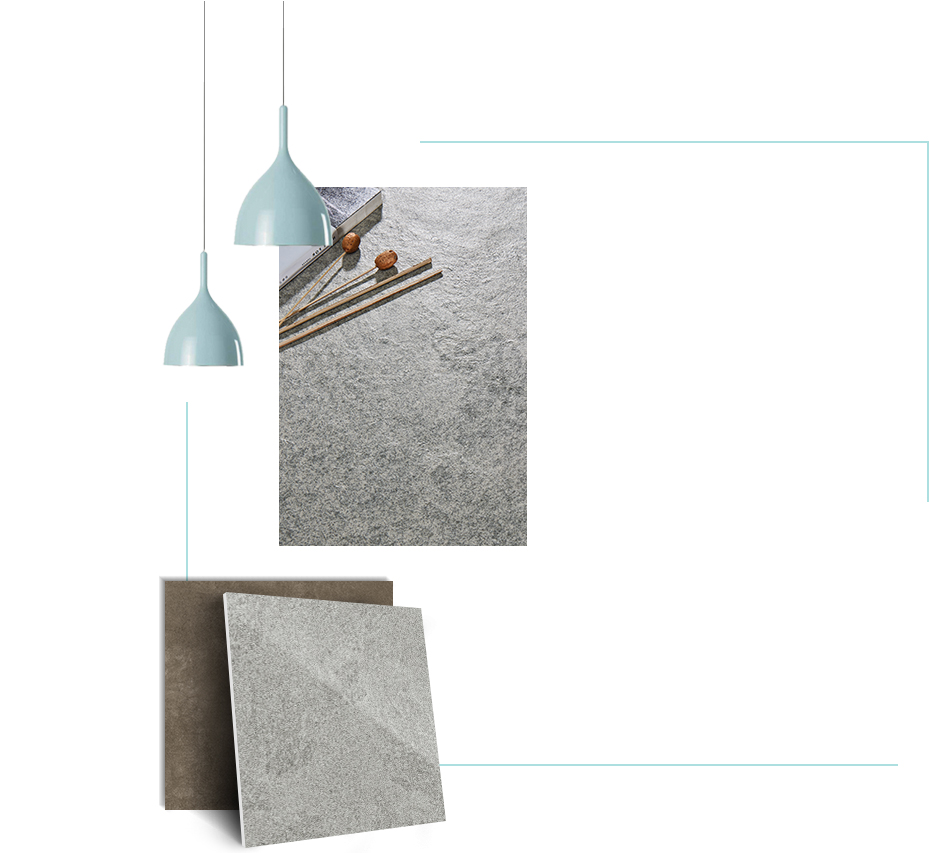
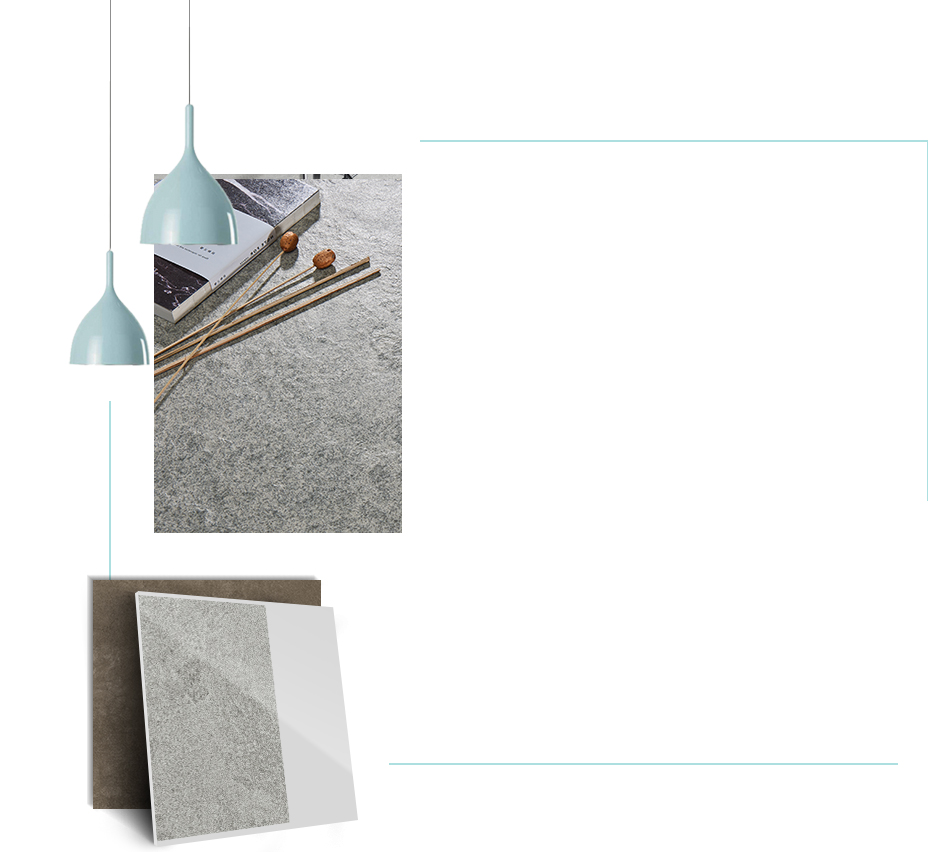
10132231

Changed region(s): [[0.0625, 0.1221, 0.5938, 1.0], [0.9688, 0.1526, 1.0, 0.5798]]

diff --git a/css/index.css b/css/index.css
@@ -248,18 +248,18 @@ body{
 }
  .produceLeft>.bslron>img:nth-child(4){
 	width: 15.8%;
-	top: 22.27%;
-	left:70.65%;
+    top: 19%;
+    left: 64.65%;
 }
  .produceLeft>.bslron>img:nth-child(5){
-	width: 26.56%;
-	top: 26.96%;
-	left:65.05%;
+	width: 28.56%;
+    top: 24.5%;
+    left: 58.05%;
 }
  .produceLeft>.bslron>img:nth-child(6){
-	width: 42.8%;
-	top: 32%;
-	left: 56.56%;
+	width: 47.8%;
+    top: 29%;
+    left: 48%;
 }
 /*右边*/
  .produceRight{
@@ -365,26 +365,26 @@ body{
 }
  .produceR>.bslron>img:nth-child(2){
 	left: 16.13%;
-	top:54%;
+	top:57%;
 }
  .produceR>.bslron>img:nth-child(3){
 	left: 32.26%;
-	top:58.24%;
+	top:60.24%;
 }
  .produceR>.bslron>img:nth-child(4){
-	width: 20.22%;
-	top: 21.56%;
-	left:11.08%;
+	width: 19.22%;
+    top: 19%;
+    left: 14.08%;
 }
  .produceR>.bslron>img:nth-child(5){
-	width: 29.35%;
-	top: 26%;
-	left:6.67%;
+	width: 31.35%;
+    top: 24%;
+    left: 8.3%;
 }
  .produceR>.bslron>img:nth-child(6){
-	width: 37.63%;
-	top: 30%;
-	left: 2.47%;
+	width: 47.04%;
+    top: 28.8%;
+    left: 1.45%;
 }
 /*木色年华*/
 #produceShowMS{
@@ -392,19 +392,19 @@ body{
 }
 /*左边*/
 #produceShowMS .produceLeft>.bslron>img:nth-child(4){
-	width: 17.74%;
-	top: 22.82%;
-	left:67.5%;
+	width: 16.74%;
+    top: 18.82%;
+    left: 68.5%;
 }
 #produceShowMS .produceLeft>.bslron>img:nth-child(5){
-	width: 24.3%;
-	top: 27.64%;
-	left:63.98%;
+	width: 27.3%;
+    top: 23.8%;
+    left: 62.98%;
 }
 #produceShowMS .produceLeft>.bslron>img:nth-child(6){
-	width: 42.8%;
-	top: 32%;
-	left: 55%;
+	width: 36.8%;
+    top: 28.5%;
+    left: 58.5%;
 }
 /*右边*/
 #produceShowMS .produceRight>.bsron>img{
@@ -459,19 +459,19 @@ body{
 }
 /*右边*/
 #produceShowXD .produceR>.bslron>img:nth-child(4){
-	width: 9.5%;
-	top: 22.31%;
-	left:19.46%;
+	width: 12.5%;
+    top: 18.6%;
+    left: 19.46%;;
 }
 #produceShowXD .produceR>.bslron>img:nth-child(5){
-	width: 26.67%;
-	top: 27.27%;
-	left:10.6%;
+	width: 30.67%;
+    top: 24%;
+    left: 11.0%;
 }
  .produceR>.bslron>img:nth-child(6){
-	width: 42.04%;
-	top: 31.64%;
-	left: 2.45%;
+	width: 41.04%;
+    top: 28.64%;
+    left: 6%;
 }
 
 /*工匠*/
@@ -497,7 +497,7 @@ body{
 	left: 0%;
 }
 #worker .worker>.workContainer>img:nth-child(2){
-	width: 42.87%;
+	width: 31.6%;
 	top: 9.2%;
 	left: 42.11%;
 }
@@ -507,9 +507,9 @@ body{
 	left: 52.52%;
 }
 #worker .worker>.workContainer>img:nth-child(4){
-	width: 48.15%;
+	width: 35.15%;
 	top: 72.07%;
-	left: 12.42%;
+	left: 21.42%;
 }
 #foot{
 	background-color: #121719;
@@ -728,3 +728,19 @@ body{
     background-repeat: no-repeat;
     right: -32px;
 }
+#produceShowGY .produceLeft>.bslron>img:nth-child(4) {
+    width: 15.8%;
+    top: 19%;
+    left: 66.65%;
+}
+#produceShowGY  .produceLeft>.bslron>img:nth-child(5) {
+        width: 27.56%;
+    top: 24.5%;
+    left: 61.05%;
+}
+#produceShowGY .produceLeft>.bslron>img:nth-child(6) {
+    width: 46.8%;
+    top: 29%;
+    left: 51.5%;
+}
+

diff --git a/index.html b/index.html
@@ -367,8 +367,8 @@
 						<ul>
 							<li>
 								<p>{{productVideo.title}}</p>
+								<p style="font-size: 28px;margin-bottom: 15px;">为年轻代岩</p>
 							</li>
-
 							<li>
 								<a href="###"><img src="img/bigplay.png" /></a>
 							</li>
@@ -424,14 +424,14 @@
 						</div>
 					</div>
 					<div class="produceR floatr">
-						<img src="img/tsdrBkg.png">
+						<img src="img/tsdrBkg.jpg">
 						<div class="bslron">
 							<img src="img/tsdImg01.png" data-scroll-reveal="enter right and move 30px over 0.8s"/>
 							<img src="img/tsdImg02.png" data-scroll-reveal="enter right and move 30px wait 0.1s over 0.8s"/>
 							<img src="img/tsdImg03.png" data-scroll-reveal="enter right and move 30px wait 0.2s over 0.8s"/>
-							<img src="titleImg/tsdt06.png" data-scroll-reveal="enter top and move 30px over 1.0s"/>
+							<img src="titleImg/tsdt06.png"  data-scroll-reveal="enter top and move 30px over 1.0s"/>
 							<img src="titleImg/tsdt07.png" data-scroll-reveal="enter top and move 25px over 1.0s"/>
-							<img src="titleImg/tsdt08.png" data-scroll-reveal="enter top and move 20px over 1.0s"/>
+							<img src="titleImg/tsdt08.png" style="width: 45.04%;top: 28.8%;left: 2.45%;" data-scroll-reveal="enter top and move 20px over 1.0s"/>
 						</div>
 					</div>
 					<div class="clearboth"></div>
@@ -504,7 +504,7 @@
 			<div id="produceShowGY">
 				<div class="produceShow">
 					<div class="produceLeft floatl">
-						<img src="img/bslBkg.jpg">
+						<img src="img/gybkg.jpg">
 						<div class="bslron">
 							<img src="img/bslimg01.png" data-scroll-reveal="enter left and move 30px over 0.8s" />
 							<img src="img/bslimg02.png" data-scroll-reveal="enter left and move 30px wait 0.1s over 0.8s"/>
@@ -536,9 +536,9 @@
 					<img src="img/wordBkg.png" />
 					<div class="workContainer">
 						<img src="img/worklImg.png" data-scroll-reveal="enter left and move 30px over 0.8s"/>
-						<img src="titleImg/wordtl.png" data-scroll-reveal="enter right and move 30px over 1.0s"/>
+						<img src="titleImg/wordtr.png" data-scroll-reveal="enter right and move 30px over 1.0s"/>
 						<img src="img/workrImg.png" data-scroll-reveal="enter left and move 30px over 1.2s"/>
-						<img src="titleImg/wordtr.png" data-scroll-reveal="enter right and move 30px over 1.4s"/>
+						<img src="titleImg/wordtl.png" data-scroll-reveal="enter right and move 30px over 1.4s"/>
 					</div>
 				</div>
 			</div>
